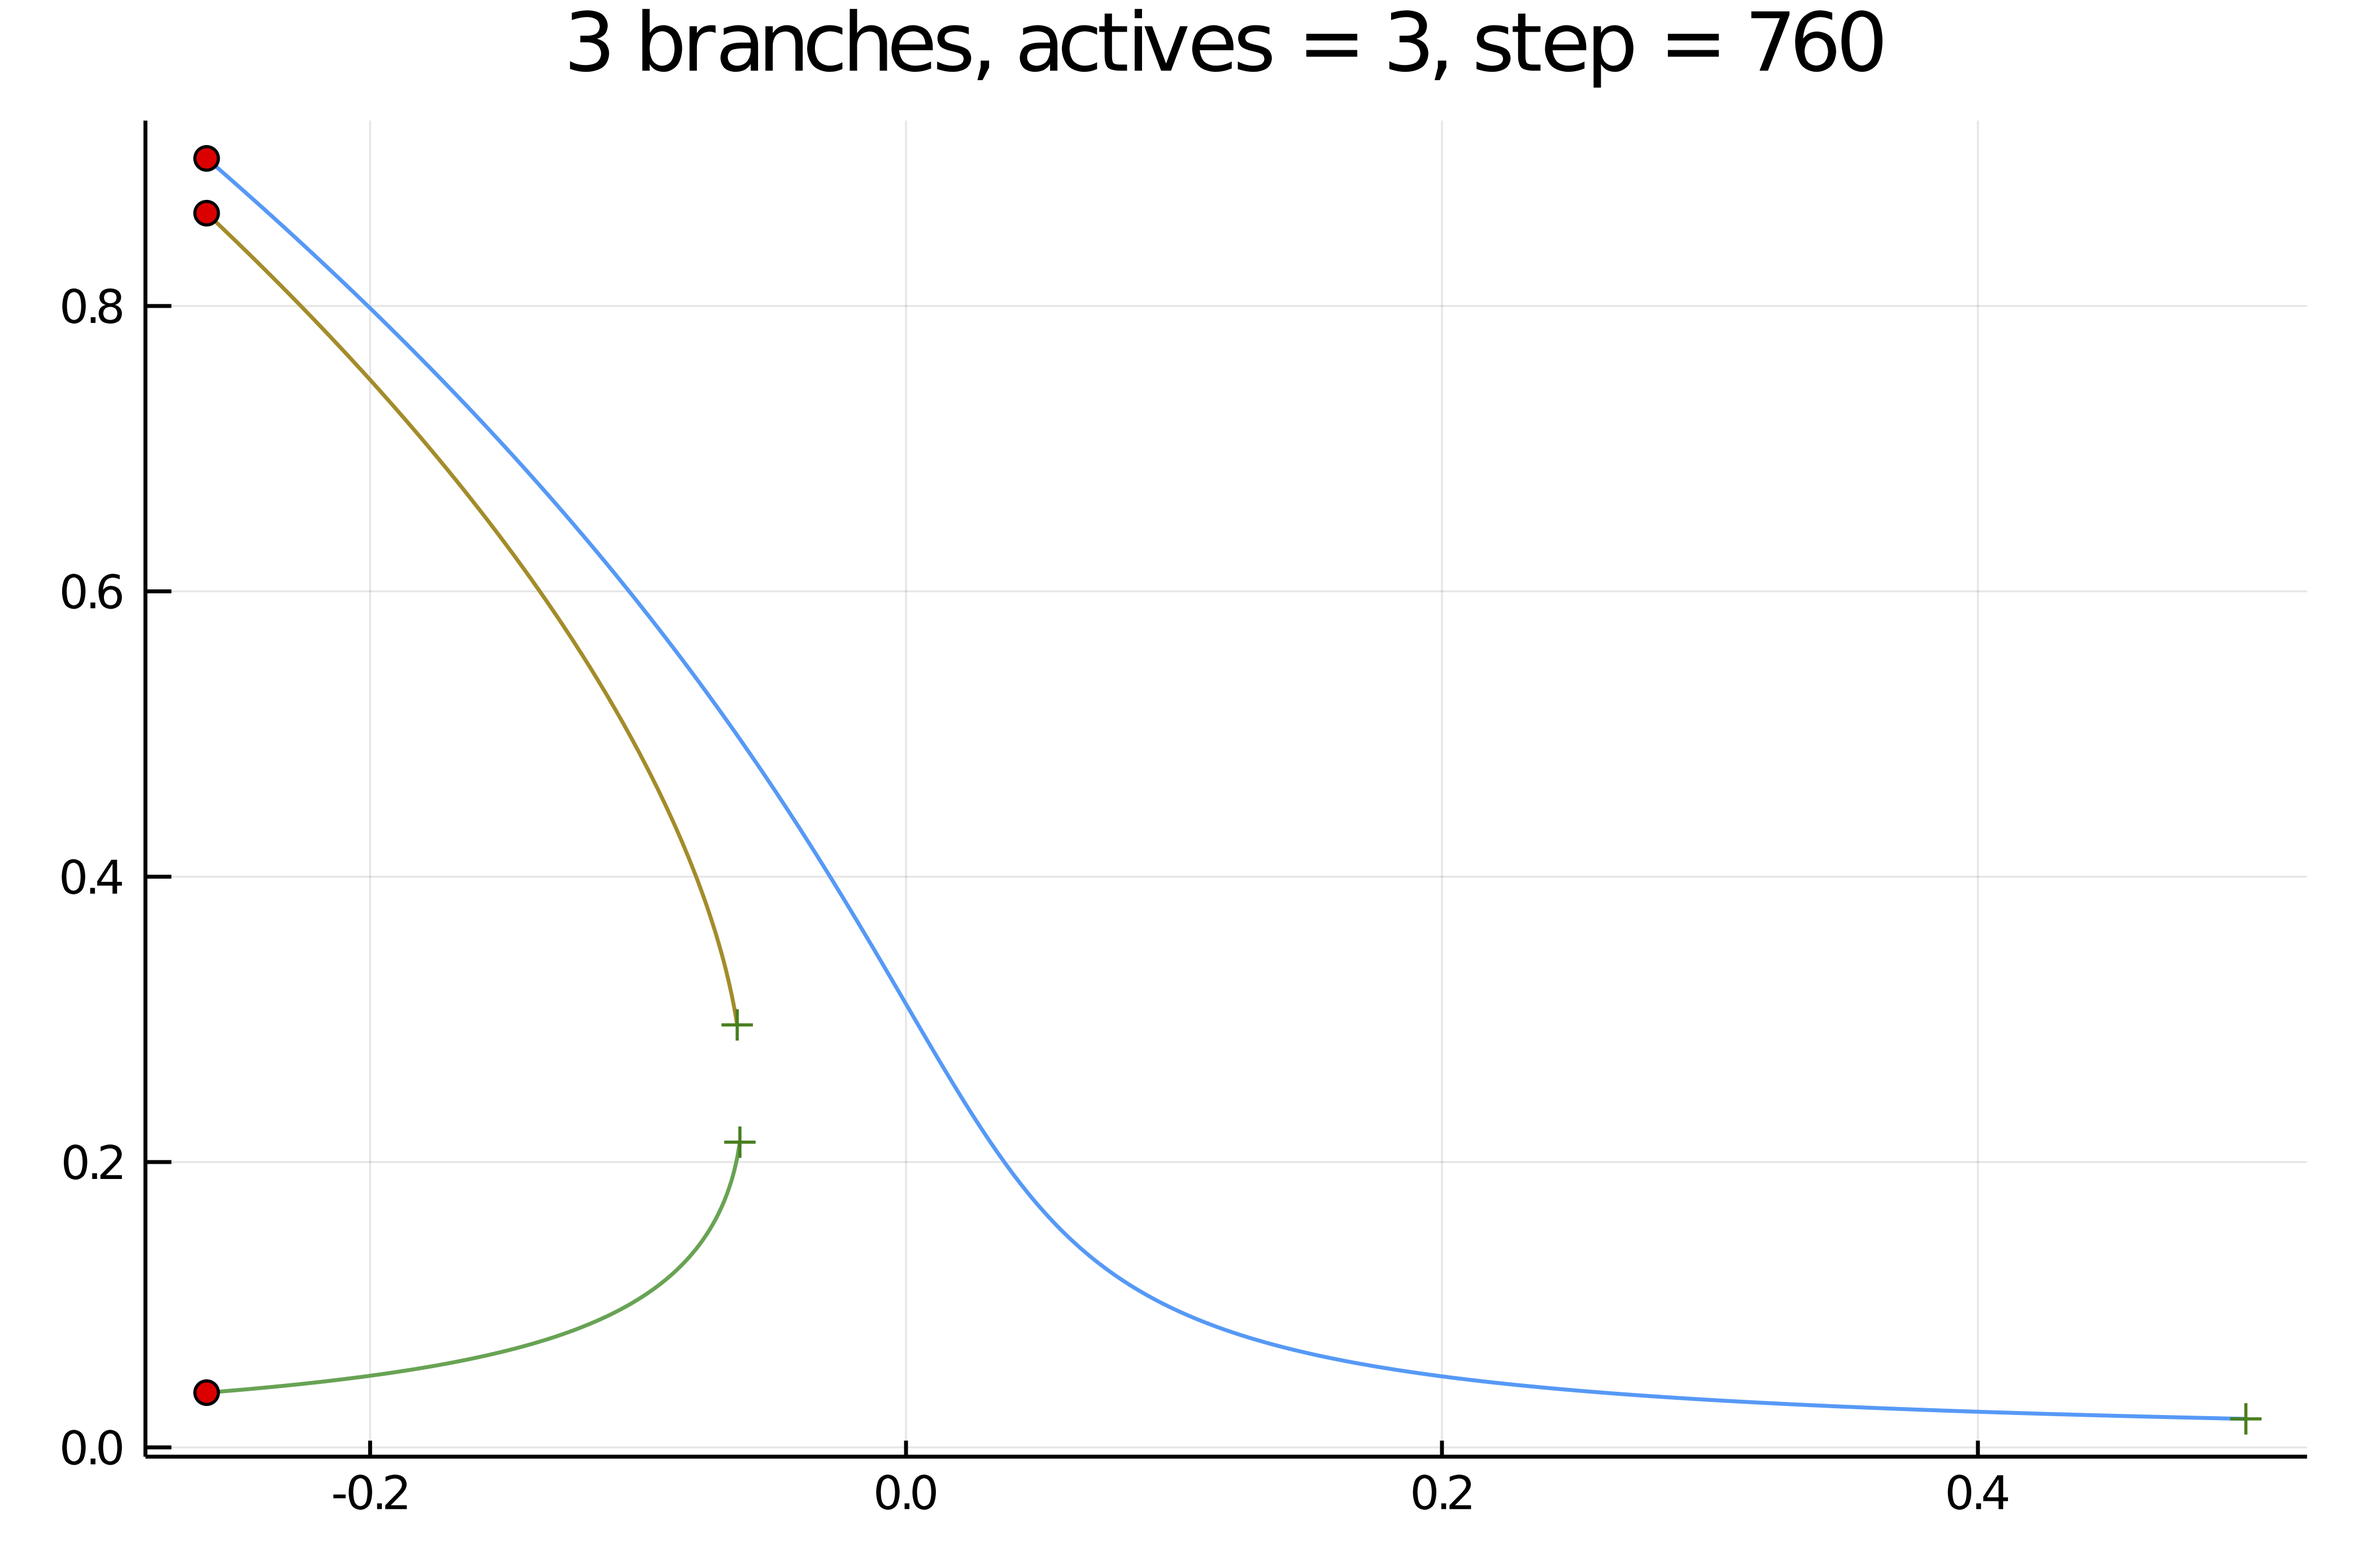
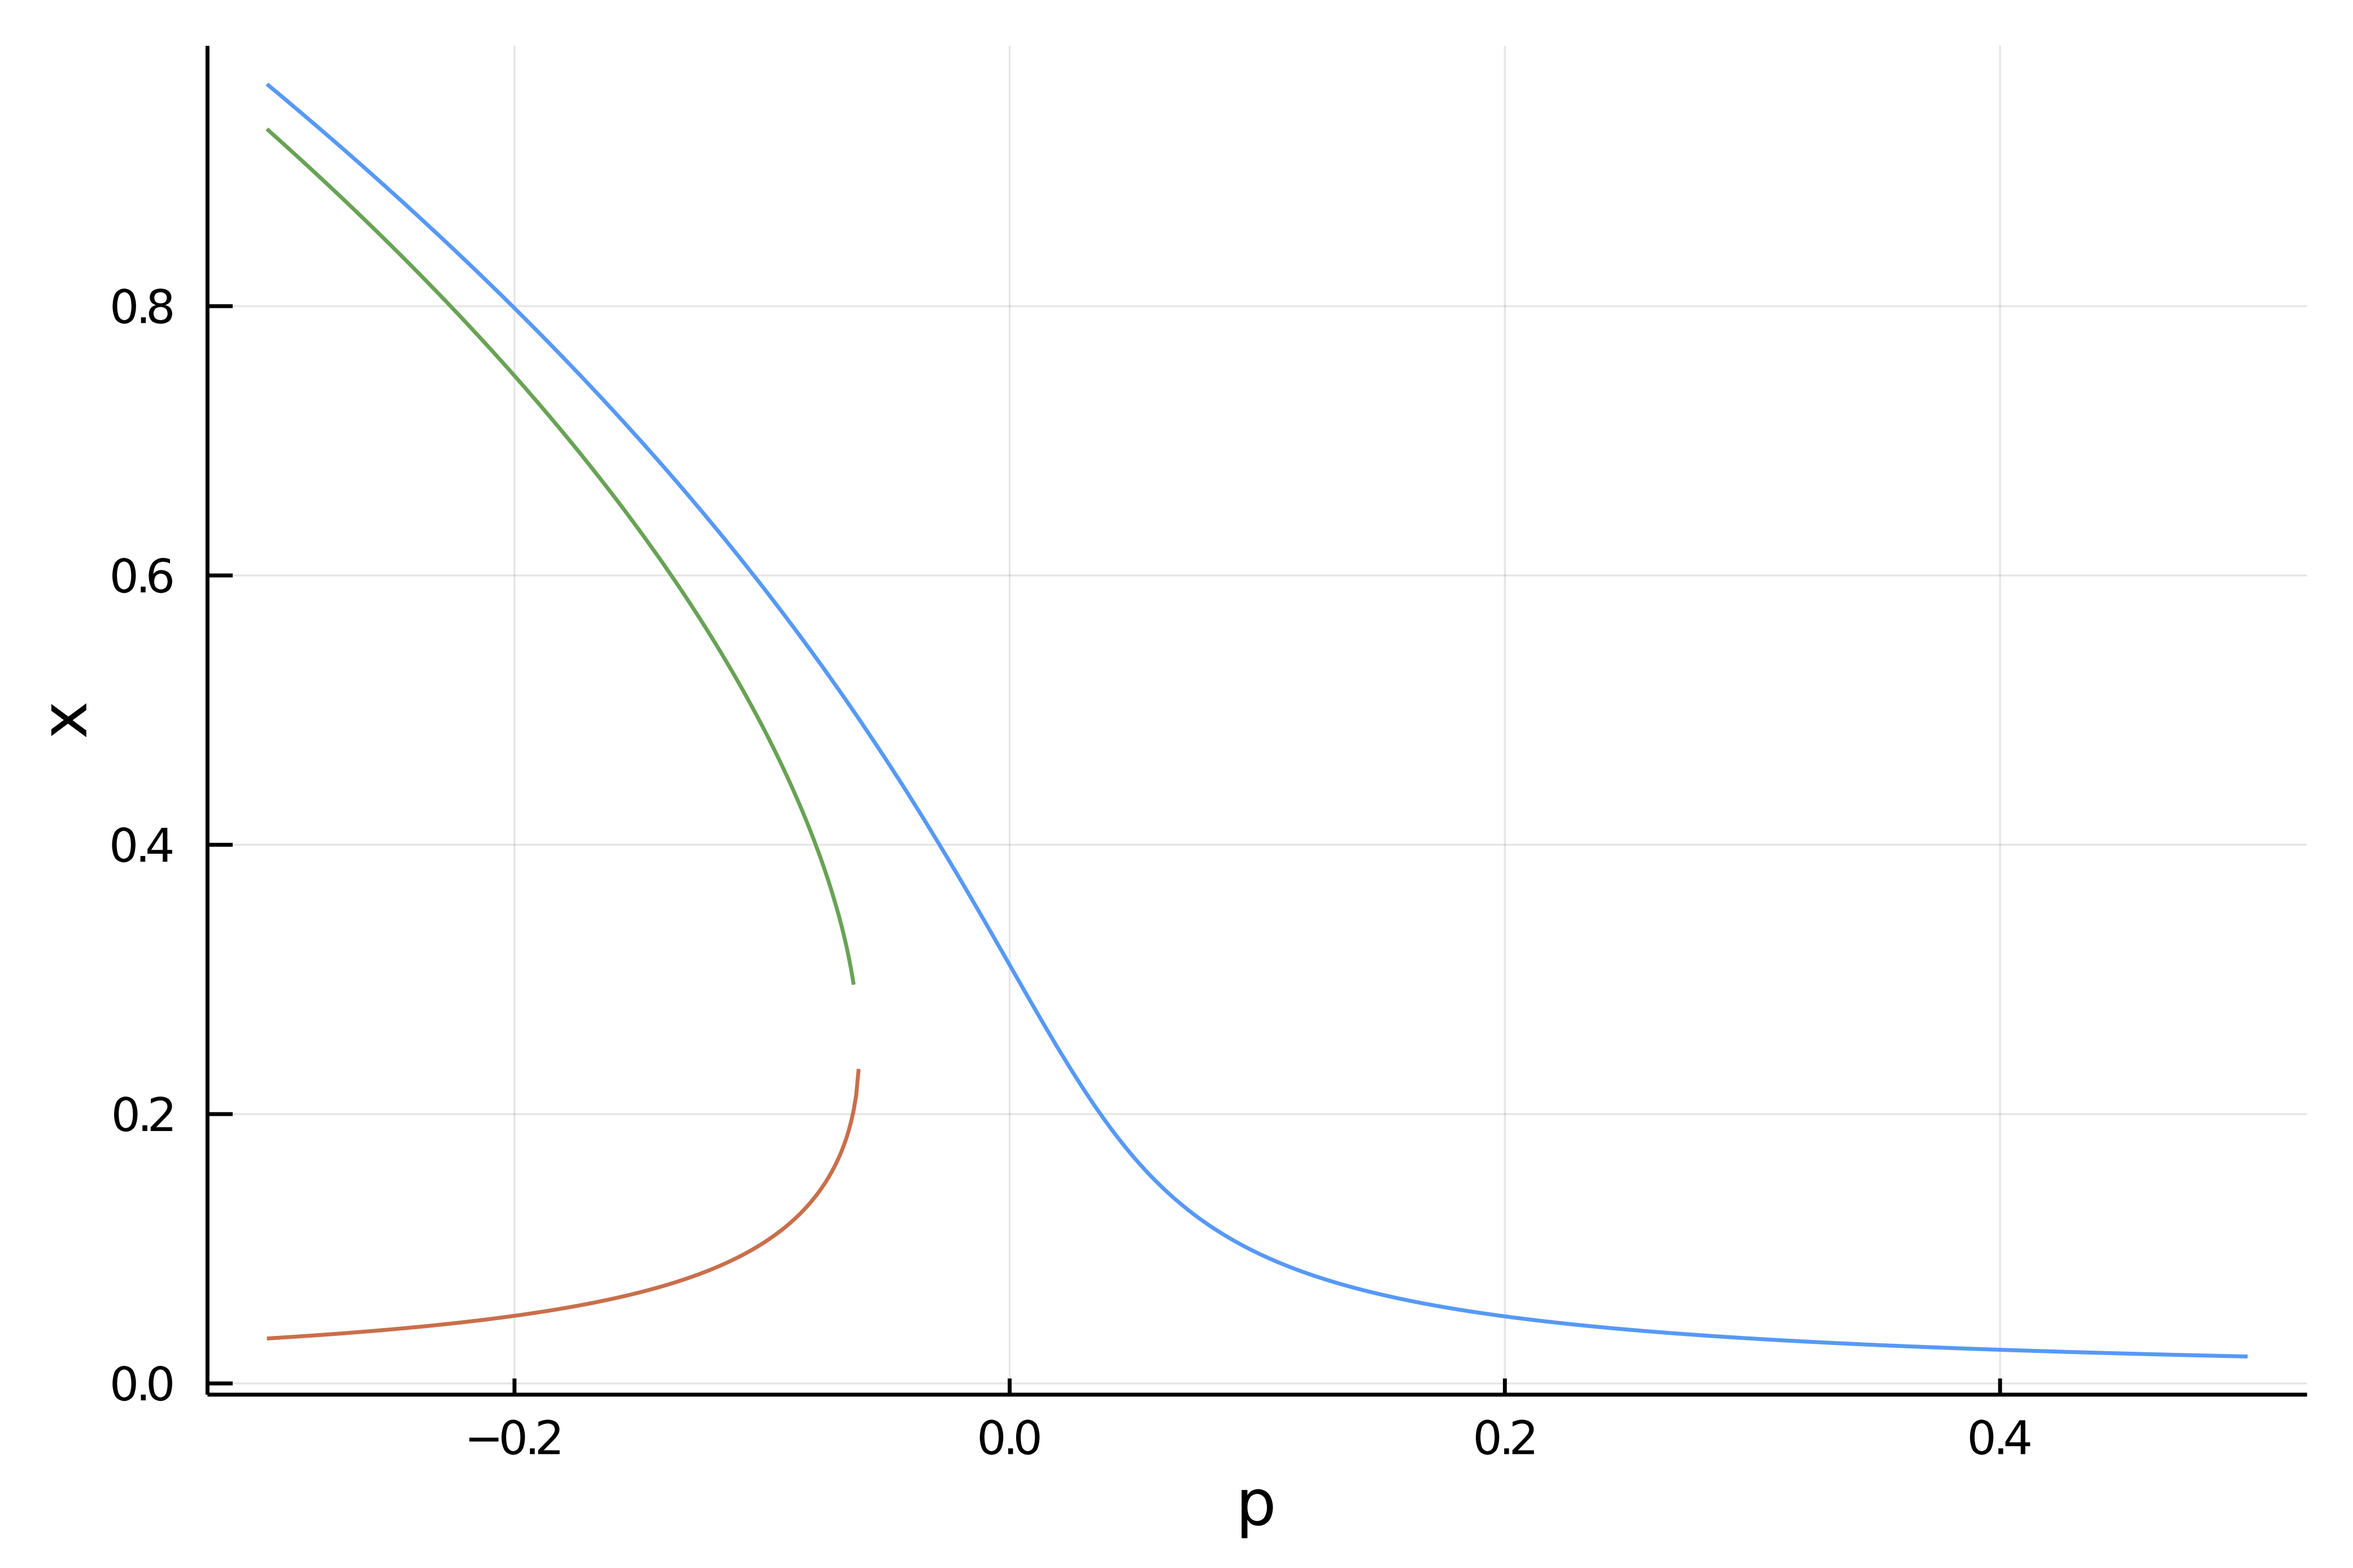
improve docs with new xlabels

diff --git a/docs/src/guidelines.md b/docs/src/guidelines.md
@@ -6,46 +6,46 @@ $$F(x,p) = 0 \quad\tag{E}$$
 
 in large dimensions as function of a *real* parameter $p$. We want to be able to do so on GPU, distributed systems...
 
-The core of the package is built around a Newton-Krylov solver (see [`newton`](@ref)) which allows to solve equations of the form $F(x)=0$, or a solution $x_0$ to (E) for a particular $p_0$.
+The core of the package is built around a Newton-Krylov solver (see [`newton`](@ref)) which allows to solve equations of the form $F(x)=0$, or find a solution $x_0$ to (E) for a particular $p_0$.
 
-Once such a solution (or several) $(x_0,p_0)$ is known, we can continue it by building a 1d curve of solutions $\gamma = (x(s),p(s))_{s\in I}$ passing through $(x_0,p_0)$ (see [`continuation`](@ref) and [Deflated Continuation](@ref).
+Once such a solution (or several) $(x_0,p_0)$ is known, we can continue it by computing a 1d curve of solutions $\gamma = (x(s),p(s))_{s\in I}$ passing through $(x_0,p_0)$ (see [`continuation`](@ref) and [Deflated Continuation](@ref)).
 
-> In practice, you don't need to know exactly $(x_0,p_0)$ to compute $\gamma$. Indeed, [`continuation`](@ref) will call [`newton`](@ref) to refine any initial guess that you will pass.
+> In practice, you don't need to know exactly $(x_0,p_0)$ to compute $\gamma$. Indeed, [`continuation`](@ref) will call [`newton`](@ref) to refine any initial guess that you pass.
 
 ## Bifurcation analysis of Equilibria
 
-We can detect if the curve of solutions $\gamma$ crosses another curve of solutions $\gamma^{bif}$ *without knowing* $\gamma^{bif}$! The intersection point $(x^b,p^b)\in\gamma$ is called a bifurcation point and is such that $\partial_xF(x^b,p^b)$ is non invertible. When calling [`continuation`](@ref), `γ, _ = continuation(...)` with the option `detectBifurcation > 0` inside [`ContinuationPar`](@ref), the bifurcation points are automatically detected and stored in `γ.bifpoints`.
+We can detect if the curve of solutions $\gamma$ crosses another curve of solutions $\gamma^{bif}$ *without knowing* $\gamma^{bif}$! The intersection point $(x^b,p^b)\in\gamma$ is called a bifurcation point and is such that $\partial_xF(x^b,p^b)$ is non invertible. When calling `γ, = continuation(...)` with the option `detectBifurcation > 0` inside [`ContinuationPar`](@ref), the bifurcation points are automatically detected and stored in `γ.bifpoints`.
 
 !!! warning "Eigenvalues"
     The rightmost eigenvalues are computed by default to detect bifurcations. Hence, the number of eigenvalues with positive real parts must be finite (*e.g.* small). This might require to consider $-F(x,p)=0$ instead of (E).
 
 ### Branch switching 
 
-In the simple cases, *e.g.* when $dim\ker \partial_xF(x^b,p^b) = 1$, we can compute automatically the **bifurcated branch** $\gamma^{bif}$ by calling [`continuation`](@ref) and passing $\gamma$. This is explained in [Branch switching from simple branch point to equilibria](@ref). Recursively, we can compute the curves of solutions which are connected to $(x_0,p_0)$, this is called a **bifurcation diagram**. This bifurcation diagram can be automatically computed using the function [`bifurcationdiagram`](@ref) with minimum input from the user. More information is provided in [Automatic Bifurcation diagram computation](@ref) and examples of use are [Swift-Hohenberg equation 1d (Automatic)](@ref) and [Automatic diagram of 2d Bratu–Gelfand problem (Intermediate)](@ref).
+In the simple case where $dim\ker \partial_xF(x^b,p^b) = 1$, we can compute automatically the **bifurcated branch** $\gamma^{bif}$ by calling [`continuation`](@ref) and passing $\gamma$. This is explained in [Branch switching from simple branch point to equilibria](@ref). Recursively, we can compute the curves of solutions which are connected to $(x_0,p_0)$, this is called a **bifurcation diagram**. This bifurcation diagram can be automatically computed using the function [`bifurcationdiagram`](@ref) with minimum input from the user. More information is provided in [Automatic Bifurcation diagram computation](@ref) and examples of use are [Swift-Hohenberg equation 1d (Automatic)](@ref) and [Automatic diagram of 2d Bratu–Gelfand problem (Intermediate)](@ref).
 
-When $d\equiv dim\ker \partial_xF(x^b,p^b) > 1$, you can still compute automatically the **bifurcated branches** $\gamma^{bif}$s by calling [`continuation`](@ref) but note that this is experimental method. It is based on a reduction of (E) to a system of $d$ dimensional multivariate polynomial equations in $d$ unknowns whose solutions gives the local topology of branches in the neighborhood of the bifurcation point $(x^b, p^b)$. The solutions of this **reduced equation** are then used as initial guesses. This is explained in [Branch switching from non simple branch point to equilibria](@ref) and examples of use are shown in [A generalized Bratu–Gelfand problem in two dimensions](@ref) and [Automatic diagram of 2d Bratu–Gelfand problem (Intermediate)](@ref).	
+When $d\equiv dim\ker \partial_xF(x^b,p^b) > 1$, you can still compute automatically the **bifurcated branches** $\gamma^{bif}$s by calling [`continuation`](@ref). It is based on a reduction of (E) to a *small* system of $d$ dimensional multivariate polynomial equations in $d$ unknowns whose solutions give the local topology of branches in the neighborhood of the bifurcation point $(x^b, p^b)$. The solutions of this **reduced equation** are then used as initial guesses for the call to Krylov-Newton. This is explained in [Branch switching from non simple branch point to equilibria](@ref) and examples of use are shown in [A generalized Bratu–Gelfand problem in two dimensions](@ref) and [Automatic diagram of 2d Bratu–Gelfand problem (Intermediate)](@ref).	
 > In the case $d=1$, the reduced equation can be further simplified into a **normal form**. This is also automatically computed by the package.
 
 
 ## Bifurcation analysis of Cauchy problems
 
-The goal of this section is to study the dynamics of Cauchy problems
+The goal of this section is to study the dynamics of the Cauchy problem
 
-$$\frac{d}{dt}x - F(x,p) = 0 \quad\tag{C}$$
+$$\frac{d}{dt}x - F(x,p) = 0. \quad\tag{C}$$
 
-The equilibria are time independent solutions of (C) hence solving (E). The previous section can be applied to compute curves of equilibria. However, we can do more. By discretizing time, we can recast (C) in the general form (E) and look for time dependent solutions as well. 
+The equilibria are time independent solutions of (C) hence satisfying (E). The previous section can be applied to compute curves of equilibria. However, we can do more. By discretizing time, we can recast (C) in the general form (E) and look for time dependent solutions as well. 
 
 We can detect the existence of periodic solutions close to $\gamma$. This is done automatically and those bifurcation points are stored in `γ.bifpoint` as well with the name of **Hopf bifurcation points**.  
 
 ### Branch switching at Hopf points
 
-We will not review the bifurcation of equilibria (see above). Therefore, we focus on computing the branch of periodic solutions branching of a Hopf point. This is done automatically by calling again [`continuation`](@ref), passing $\gamma$ and choosing a time discretization algorithm (see [Periodic orbits computation](@ref)). Some details about this branch switching is given in [Branch switching from Hopf point to periodic orbits](@ref).
+We focus on computing the branch of periodic solutions branching from a Hopf point. This is done automatically by calling [`continuation`](@ref), passing $\gamma$ and choosing a time discretization algorithm (see [Periodic orbits computation](@ref)). Some details about this branch switching are given in [Branch switching from Hopf point to periodic orbits](@ref).
 
 ### Branch switching at bifurcation points of periodic orbits
 
 Let us consider the case where a branch of periodic orbits $\gamma^{po}$ have been computed (see for example previous section) and several bifurcation points have been detected (branch point, period doubling and Neimark Sacker). Can we compute bifurcated branches from $\gamma^{po}$? Automatically?
 
-We do not provide an *automatic* branch switching for those points for all methods (Shooting, Finite differences). However, for branch points of periodic orbits, you can call [`continuation`](@ref) by passing $\gamma^{po}$ and some simple arguments (amplitude of the periodic orbits) to perform branch switching in a semi-automatic way. For the case of [Periodic orbits based on finite differences](@ref), see [Branch switching from Branch point of curve of periodic orbits](@ref).
+We do not provide an *automatic* branch switching for those points and for all methods (Shooting, Finite differences). However, for branch points of periodic orbits, you can call [`continuation`](@ref) by passing $\gamma^{po}$ and some simple arguments (amplitude of the periodic orbits) to perform branch switching in a semi-automatic way. For the case of [Periodic orbits based on finite differences](@ref), see [Branch switching from Branch point of curve of periodic orbits](@ref).
 
 !!! tip "Manual Branch switching"
     You can perform **manual** branch switching by computing the nearby solutions close to a bifurcation point using a deflated newton (see [Deflated problems](@ref)), which provides a way to compute solutions other than a set of already known solutions.  You can then use these solutions to compute branches by calling `continuation`. Many, if not all tutorials give example of doing so like [A generalized Bratu–Gelfand problem in two dimensions](@ref) or [Brusselator 1d (automatic)](@ref).

diff --git a/docs/src/DeflatedContinuation.md b/docs/src/DeflatedContinuation.md
@@ -58,10 +58,11 @@ Jac_m = (x, p) -> diagm(0 => p .+ x.^k)
 opts = BK.ContinuationPar(dsmax = 0.051, dsmin = 1e-3, ds=0.001, maxSteps = 140, pMin = -3., saveSolEveryStep = 0, newtonOptions = NewtonPar(tol = 1e-8, verbose = false), saveEigenvectors = false)
 
 brdc, = continuation(F,Jac_m, 0.5, (@lens _),
-	ContinuationPar(opts, ds = -0.001, maxSteps = 800, newtonOptions = NewtonPar(verbose = true, maxIter = 6), plotEveryStep = 40),
-	DeflationOperator(2.0, dot, .001, [[0.]]); showplot=true, verbosity = 1,
+	ContinuationPar(opts, ds = -0.001, maxSteps = 800, newtonOptions = NewtonPar(verbose = false, maxIter = 6), plotEveryStep = 40),
+	DeflationOperator(2.0, dot, .001, [[0.]]); showplot=true, verbosity = 0,
 	perturbSolution = (x,p,id) -> (x  .+ 0.1 .* rand(length(x))),
 	callbackN = (x, f, J, res, iteration, itlinear, options; kwargs...) -> res <1e3)
+plot(brdc...)
 ```
 
 ![](DCexample.png)

diff --git a/docs/src/tutorials1b.md b/docs/src/tutorials1b.md
@@ -1,11 +1,11 @@
-# Temperature model with `ApproxFun`, Spectral collocation (intermediate)
+# Temperature model with `ApproxFun` (intermediate)
 
 ```@contents
 Pages = ["tutorials1b.md"]
 Depth = 3
 ```
 
-We reconsider the first example by relying on **spectral collocations** using the package `ApproxFun.jl` which allows very precise function approximation. 
+We reconsider the first example by relying on the package `ApproxFun.jl` which allows very precise function approximation. 
 
 > This is one example where the state space, the space of solutions to the nonlinear equation, is not a subtype of `AbstractArray`. See [Requested methods for Custom State](@ref) for more informations.
 

diff --git a/docs/src/BifurcationDiagram.md b/docs/src/BifurcationDiagram.md
@@ -68,7 +68,7 @@ Bifurcation points:
 - #  2,      bp point around p ≈ 0.15000005, step =  53, eigenelements in eig[ 54], ind_ev =   1 [converged], δ = (-1,  0)
 ```
 
-You can plot the diagram like `plot(bdiag; putbifptlegend=false, markersize=2, plotfold=false, title = "#branches = $(size(bdiag))")` and it gives:
+You can plot the diagram like `plot(diagram; putbifptlegend=false, markersize=2, plotfold=false, title = "#branches = $(size(diagram))")` and it gives:
 
 ![](diagram1d.png)
 

diff --git a/docs/src/mittelmann.md b/docs/src/mittelmann.md
@@ -188,7 +188,7 @@ We continue our journey and compute the branch bifurcating of the first bifurcat
 ```julia
 br2, = continuation(jet..., br1, 1, 
 	setproperties(opts_br;ds = 0.001, maxSteps = 40); 	verbosity = 3, plot = true,
-	printSolution = (x, p) -> norm(x),
+	printSolution = (x, p) -> normbratu(x),
 	plotSolution = (x, p; kwargs...) -> plotsol!(x ; kwargs...), normC = norminf)
 ```
 
